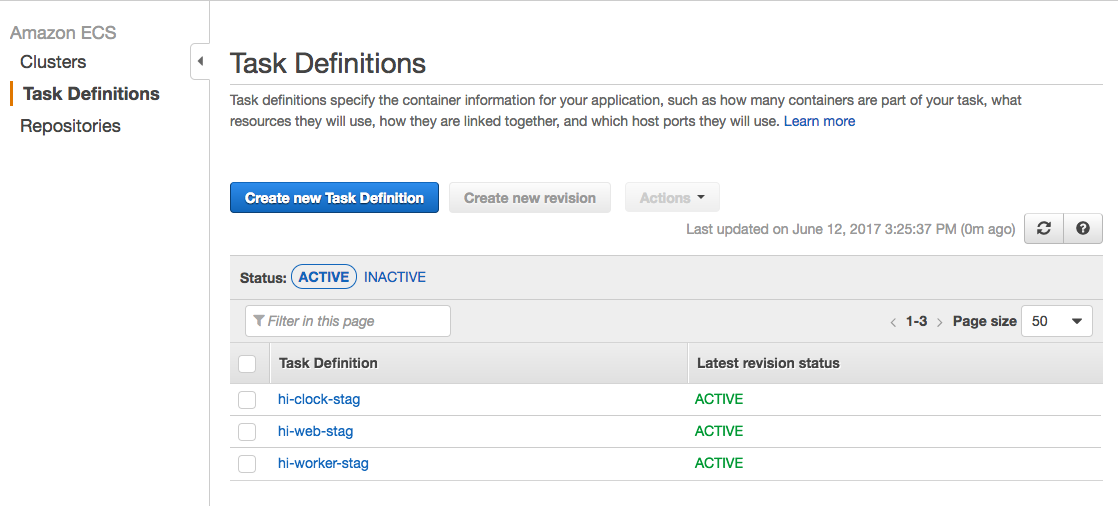
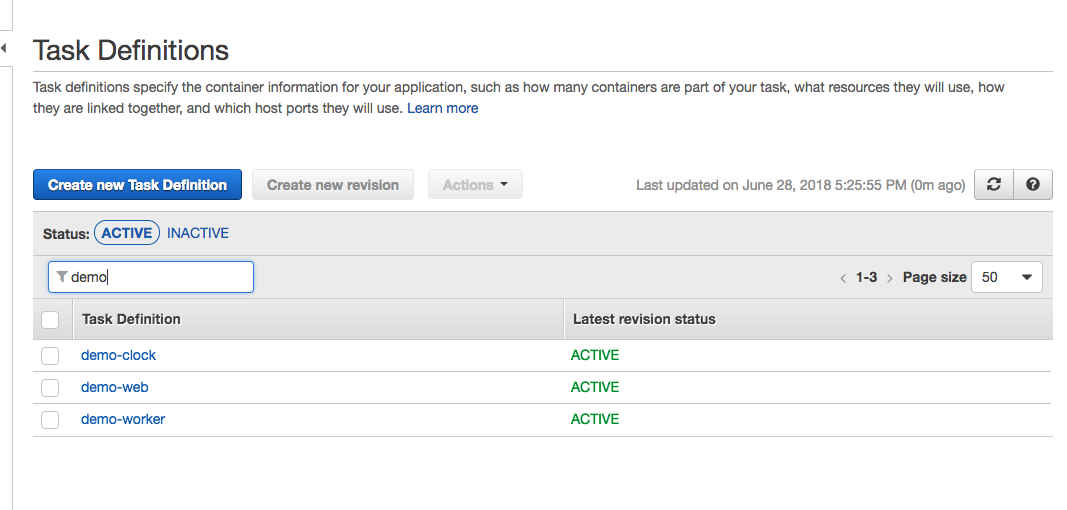
update docs

diff --git a/docs/_docs/tutorial-ufo-ship.md b/docs/_docs/tutorial-ufo-ship.md
@@ -7,91 +7,86 @@ title: Deploy One App
 In this guide we have walked through what ufo does step by step.  First ufo builds the Docker image with `ufo docker build`.  Then it will build and register the ECS task definitions with the `ufo tasks` commands. Now we'll deploy the code to ECS.
 
 ```sh
-ufo ship hi-web
+ufo ship demo-web
 ```
 
 By convention, ufo will ship the docker container to an ECS cluster with the same value as UFO_ENV, which defaults to development.  So the command above is the same as:
 
 ```sh
-ufo ship hi-web --cluster development
-UFO_ENV=development ufo ship hi-web
+ufo ship demo-web --cluster development
+UFO_ENV=development ufo ship demo-web
 ```
 
-When you run `ufo ship hi-web`:
+When you run `ufo ship demo-web`:
 
 1. It builds the docker image.
 2. Generates a task definition and registers it.
 3. Updates the ECS service to use it.
 
-If the ECS service hi-web does not yet exist, ufo will create the service for you. Ufo will also automatically create the ECS cluster.
+If the ECS service demo-web does not yet exist, ufo will create the service for you. Ufo will also automatically create the ECS cluster.
 
-NOTE: If you are relying on this tool to create the cluster, you still need to associate ECS Container Instances to the cluster yourself.
+NOTE: Ufo creates the ECS cluster record, but you still need to associate ECS Container Instances to the cluster yourself.
 
-By convention, if the service has a container name web, you'll get prompted to create an ELB and specify a target group ARN.  The ELB and target group must already exist. You can bypass the prompt and specify the target group ARN as part of the ship command or with the `--no-target-group-prompt` option.  The ELB target group only gets associated with the ECS service if the service is being created for the first time.  If the service already exists then the `--target-group` parameter just gets ignored and the ECS task simply gets updated.  Example:
-
-
-```bash
-ufo ship hi-web --target-group=arn:aws:elasticloadbalancing:us-east-1:12345689:targetgroup/hi-web/12345
-```
-
-Let's go back to the original command and take a look at the output:
+By convention, if the service has a container name web, ufo will automatically create an Load Balancer.  Let's take a look at the example out from the `ufo ship`.  Some of the output has been removed for conciseness.
 
 ```sh
-ufo ship hi-web
-```
-
-The output should look something like this (some of the output has been removed for conciseness):
-
-```sh
-$ ufo ship hi-web
+$ ufo ship demo-web
 Building docker image with:
-  docker build -t tongueroo/hi:ufo-2017-06-12T06-46-12-a18aa30 -f Dockerfile .
+  docker build -t tongueroo/demo-ufo:ufo-2018-06-28T16-41-11-7e0af94 -f Dockerfile .
 ...
-Pushed tongueroo/hi:ufo-2017-06-12T06-46-12-a18aa30 docker image. Took 9s.
-Building Task Definitions...
-Generating Task Definitions:
-  ufo/output/hi-web.json
-  ufo/output/hi-worker.json
-  ufo/output/hi-clock.json
-Task Definitions built in ufo/output.
-hi-web task definition registered.
-Shipping hi-web...
-hi-web service updated on stag cluster with task hi-web
+Deploying demo-web...
+Ensuring log group for demo-web task definition exists
+Log group name: ecs/demo-web
+Creating stack development-demo-web...
+Generated template saved at: /tmp/ufo/development-demo-web/stack.yml
+Generated parameters saved at: /tmp/ufo/development-demo-web/parameters.yml
+04:41:27PM CREATE_IN_PROGRESS AWS::CloudFormation::Stack development-demo-web User Initiated
+04:41:31PM CREATE_IN_PROGRESS AWS::EC2::SecurityGroup ElbSecurityGroup
+04:41:31PM CREATE_IN_PROGRESS AWS::EC2::SecurityGroup EcsSecurityGroup
+04:41:31PM CREATE_IN_PROGRESS AWS::ElasticLoadBalancingV2::TargetGroup TargetGroup
+04:41:31PM CREATE_IN_PROGRESS AWS::EC2::SecurityGroup ElbSecurityGroup Resource creation Initiated
+04:41:32PM CREATE_IN_PROGRESS AWS::EC2::SecurityGroup EcsSecurityGroup Resource creation Initiated
+04:41:32PM CREATE_IN_PROGRESS AWS::ElasticLoadBalancingV2::TargetGroup TargetGroup Resource creation Initiated
+...
+04:44:46PM CREATE_COMPLETE AWS::ECS::Service Ecs
+04:44:48PM CREATE_COMPLETE AWS::CloudFormation::Stack development-demo-web
+Stack success status: CREATE_COMPLETE
+Time took for stack deployment: 3m 22s.
 Software shipped!
-Cleaning up docker images...
-Running: docker rmi tongueroo/hi:ufo-2017-06-11T20-32-16-a18aa30 tongueroo/hi:ufo-2017-06-11T20-27-44-bc80e84 tongueroo/hi:ufo-2017-06-11T20-02-18-bc80e84
+$
 ```
 
 Checking the ECS console you should see something like this:
 
 <img src="/img/tutorials/ecs-console-ufo-ship.png" class="doc-photo" />
 
-You have successfully shipped a docker image to ECS! 🍾🥂
+You have successfully deployed a Docker image to ECS! 🍾🥂
 
-## Skipping Previous Steps Method
+## Checking ECS Service
 
-You should notice that `ufo ship` re-built the docker image and re-registered the task definitions.  The `ufo ship` command is designed to run everything in one simple command, so we do not have to manually call the commands in the previous pages: `ufo build` and `ufo tasks`.
+Another way to check that the ECS service is running is with the `ufo ps` command.
 
-If you would like to skip the first 2 steps, then you can use the [ufo deploy]({% link _reference/ufo-deploy.md %}) instead.  The `ufo deploy` command will:
+    $ ufo ps demo-web
+    => Service: demo-web
+       Service name: development-demo-web-Ecs-12DRF2703Z3D2
+       Status: ACTIVE
+       Running count: 1
+       Desired count: 1
+       Launch type: EC2
+       Task definition: demo-web:82
+       Elb: develop-Elb-ZY1VARS3KP14-2141687965.us-east-1.elb.amazonaws.com
+    +----------+------+-------------+---------------+---------+-------+
+    |    Id    | Name |   Release   |    Started    | Status  | Notes |
+    +----------+------+-------------+---------------+---------+-------+
+    | e4426421 | web  | demo-web:82 | 5 minutes ago | RUNNING |       |
+    +----------+------+-------------+---------------+---------+-------+
 
-1. register the task definition in `.ufo/output/hi-web.json` unmodified
-2. update the ECS service
+## Ufo Current Tip
 
-Example:
+We've been typing the `demo-web` service name explicitly.  We can set the current service with the `ufo current` command to save us from typing each time.  Example:
 
-```sh
-ufo deploy hi-web
-```
-
-The output should look something like this:
-
-```sh
-Shipping hi-web...
-hi-web service updated on stag cluster with task hi-web
-Software shipped!
-```
-
-Normally you run everything together in one `ufo ship` command though.  Ufo takes a multiple step process and simplifies it down to a single command!
+    ufo current --service demo-web
+    ufo ship # now same as ufo ship demo-web
 
 Congratulations 🎊 You have successfully built a Docker image, register it and deployed it to AWS ECS.
 

diff --git a/docs/_docs/tutorial-ufo-ships.md b/docs/_docs/tutorial-ufo-ships.md
@@ -2,16 +2,16 @@
 title: Deploy Multiple Apps
 ---
 
-You might have noticed in in the tutorial that the generated starter ufo folder contains 3 task definitions a `web`, `worker` and `clock` role.  This is a common pattern.  The web process handles web traffic, the worker process handles background job processing that would be too slow and potentially block web requests, and a clock process is typically used to schedule recurring jobs.
+You might have noticed in the tutorial that the generated starter .ufo folder contains 3 task definitions a `web`, `worker` and `clock` role.  This is a common pattern.  The web process handles web traffic, the worker process handles background job processing that would be too slow and potentially block web requests, and a clock process is typically used to schedule recurring jobs.
 
-These processes use the same codebase and same docker image, but have slightly different run time settings.  The docker run command for a web process could be [puma](http://puma.io/) and the command for a worker process could be [sidekiq](http://sidekiq.org/).  Environment variables are also sometimes different.  The important key is that the same docker image is used for all 3 services but the task definition for each service is slightly different.
+These processes typically use the same codebase and same docker image, but have slightly different run time settings.  The docker run command for a web process could be [puma](http://puma.io/) and the command for a worker process could be [sidekiq](http://sidekiq.org/).  Environment variables are also sometimes different.  The important key is that the same docker image is used for all 3 services but the task definition for each service is slightly different.
 
 While we can use the `ufo ship` command to deploy to all 3 service roles individually like so:
 
 ```sh
-ufo ship hi-web
-ufo ship hi-worker
-ufo ship hi-clock
+ufo ship demo-web
+ufo ship demo-worker
+ufo ship demo-clock
 ```
 
 This would build a new Docker image for each process.  We actually want have the same docker image running on all of these roles.  In this case where we want to use the *same* Docker image for all 3 roles, ufo provides a `ufo ships` command.
@@ -19,7 +19,7 @@ This would build a new Docker image for each process.  We actually want have the
 ## ufo ships
 
 ```sh
-ufo ships hi-web hi-worker hi-clock
+ufo ships demo-web demo-worker demo-clock
 ```
 
 You can check on the ECS console and should see something similar to this:
@@ -29,8 +29,10 @@ You can check on the ECS console and should see something similar to this:
 You can shorten the command by taking advantage of shell expansion:
 
 ```sh
-ufo ships hi-{web,worker,clock}
+ufo ships demo-{web,worker,clock}
 ```
+
+In the case of the `ufo ships` command the `--wait` option defaults to false so that all the specified ECS services update in parallel.  You can check on the status of the update on the CloudFormation console.
 
 <a id="prev" class="btn btn-basic" href="{% link _docs/tutorial-ufo-ship.md %}">Back</a>
 <a id="next" class="btn btn-primary" href="{% link docs.md %}">Next Step</a>

diff --git a/docs/_docs/tutorial-ufo-docker-build.md b/docs/_docs/tutorial-ufo-docker-build.md
@@ -15,38 +15,25 @@ You should see similar output (some of the output has been truncated for concise
 ```sh
 $ ufo docker build
 Building docker image with:
-  docker build -t tongueroo/hi:ufo-2017-06-11T22-18-03-a18aa30 -f Dockerfile .
-Sending build context to Docker daemon 734.2 kB
-Step 1 : FROM ruby:2.3.3
- ---> 0e1db669d557
-Step 2 : RUN apt-get update &&   apt-get install -y     build-essential     nodejs &&   rm -rf /var/lib/apt/lists/* && apt-get clean && apt-get purge
+  docker build -t tongueroo/demo-ufo:ufo-2018-06-28T16-33-57-7e0af94 -f Dockerfile .
+Sending build context to Docker daemon    128kB
+Step 1/10 : FROM ruby:2.5.1
+ ---> 857bc7ff918f
+Step 2/10 : WORKDIR /app
  ---> Using cache
- ---> 931ace833716
+ ---> 4e93fbb496c9
 ...
-Step 7 : ADD . /app
- ---> fae2452e6c35
-Removing intermediate container 4c93f92a7fd8
-Step 8 : RUN bundle install --system
- ---> Running in f851b9cb7d27
-Using rake 12.0.0
-Using i18n 0.8.1
-...
-Using web-console 2.3.0
-Bundle complete! 12 Gemfile dependencies, 56 gems now installed.
-Bundled gems are installed into /usr/local/bundle.
- ---> 194830c5c1a8
-...
-Removing intermediate container 67545cd4cd09
-Step 11 : CMD bin/web
- ---> Running in b1b26e68d957
- ---> 8547bb48b21f
-Removing intermediate container b1b26e68d957
-Successfully built 8547bb48b21f
-Docker image tongueroo/hi:ufo-2017-06-11T22-18-03-a18aa30 built.  Took 33s.
-$
+Step 10/10 : CMD bin/web
+ ---> Running in cd63ebaec8aa
+ ---> 14852737c639
+Removing intermediate container cd63ebaec8aa
+Successfully built 14852737c639
+Successfully tagged tongueroo/demo-ufo:ufo-2018-06-28T16-33-57-7e0af94
+Docker image tongueroo/demo-ufo:ufo-2018-06-28T16-33-57-7e0af94 built.
+Docker build took 2s.
 ```
 
-As you can see `ufo docker build` effectively shells out and calls `docker build -t tongueroo/hi:ufo-2017-06-11T22-18-03-a18aa30 -f Dockerfile .`.  The docker image tag that is generated contains a useful timestamp and the current HEAD git sha of the project that you are on.
+As you can see `ufo docker build` shells out and calls `docker build -t tongueroo/hi:ufo-2017-06-11T22-18-03-a18aa30 -f Dockerfile .`.  The docker image tag that is generated contains a useful timestamp and the current HEAD git sha of the project that you are on.
 
 By default when you are running `ufo docker build` directly it does not push the docker image to the registry.  If you would like it to push the built image to a registry at the end of the build use the `--push` flag.
 
@@ -63,7 +50,8 @@ ufo docker push
 You should see the image being pushed with a message that looks something like this:
 
 ```sh
-Pushed tongueroo/hi:ufo-2017-06-11T22-22-32-a18aa30 docker image. Took 9s.
+Pushed tongueroo/demo-ufo:ufo-2018-06-28T16-33-57-7e0af94 docker image.
+Docker push took 12s.
 ```
 
 

diff --git a/docs/_docs/tutorial-ufo-tasks-build.md b/docs/_docs/tutorial-ufo-tasks-build.md
@@ -39,7 +39,7 @@ The instance variable values are specified in `.ufo/task_definitions.rb` via a D
 **.ufo/task_definitions.rb**:
 
 ```
-task_definition "hi-web" do
+task_definition "demo-web" do
   source "main" # will use ufo/templates/main.json.erb
   variables(
     family: task_definition_name,
@@ -49,7 +49,7 @@ task_definition "hi-web" do
   )
 end
 
-task_definition "hi-worker" do
+task_definition "demo-worker" do
   source "main" # will use ufo/templates/main.json.erb
   variables(
     family: task_definition_name,
@@ -66,7 +66,7 @@ Ufo has a concept of shared variables, covered in [Shared Variables]({% link _do
 **.ufo/variables/base.rb**:
 
 ```ruby
-@image = helper.full_image_name # includes the git sha tongueroo/hi:ufo-[sha].
+@image = helper.full_image_name # includes the git sha tongueroo/demo-ufo:ufo-[sha].
 @cpu = 128
 @memory_reservation = 256
 @environment = helper.env_file(".env")
@@ -99,22 +99,22 @@ You should see output similar to below:
 $ ufo tasks build
 Building Task Definitions...
 Generating Task Definitions:
-  .ufo/output/hi-web.json
-  .ufo/output/hi-worker.json
-  .ufo/output/hi-clock.json
+  .ufo/output/demo-web.json
+  .ufo/output/demo-worker.json
+  .ufo/output/demo-clock.json
 Task Definitions built in .ufo/output
 $
 ```
 
-Let's take a look at one of the generated files: `.ufo/output/hi-web.json`.
+Let's take a look at one of the generated files: `.ufo/output/demo-web.json`.
 
 ```json
 {
-  "family": "hi-web",
+  "family": "demo-web",
   "containerDefinitions": [
     {
       "name": "web",
-      "image": "tongueroo/hi:ufo-2018-02-13T11-33-15-27aa242",
+      "image": "tongueroo/demo-ufo:ufo-2018-02-13T11-33-15-27aa242",
       "cpu": 192,
       "memoryReservation": 256,
       "portMappings": [
@@ -137,7 +137,7 @@ Let's take a look at one of the generated files: `.ufo/output/hi-web.json`.
       "logConfiguration": {
         "logDriver": "awslogs",
         "options": {
-          "awslogs-group": "ecs/hi-web",
+          "awslogs-group": "ecs/demo-web",
           "awslogs-region": "us-east-1",
           "awslogs-stream-prefix": "hi"
         }
@@ -159,9 +159,9 @@ ufo tasks register
 You should see something similar to this:
 
 ```sh
-hi-clock task definition registered.
-hi-web task definition registered.
-hi-worker task definition registered.
+demo-clock task definition registered.
+demo-web task definition registered.
+demo-worker task definition registered.
 ```
 
 <a id="prev" class="btn btn-basic" href="{% link _docs/tutorial-ufo-docker-build.md %}">Back</a>

diff --git a/docs/_docs/tutorial-ufo-init.md b/docs/_docs/tutorial-ufo-init.md
@@ -2,36 +2,37 @@
 title: Setup Ufo
 ---
 
-The easiest way to create this ufo folder is by using the `ufo init` command.  For this tutorial we'll [tongueroo/hi](https://github.com/tongueroo/hi) which is a small test sinatra app.
+The easiest way to create this ufo folder is by using the `ufo init` command.  For this tutorial we'll [tongueroo/demo-ufo](https://github.com/tongueroo/demo-ufo) which is a small test sinatra app.
 Let's run the command in our newly cloned project.
 
 ```sh
-git clone https://github.com/tongueroo/hi.git
-cd hi
-ufo init --app=hi --image=tongueroo/hi
+git clone https://github.com/tongueroo/demo-ufo.git
+cd demo-ufo
+ufo init --app=demo --image=tongueroo/demo-ufo
 ```
 
 You should see output similiar to this:
 
 ```sh
-$ ufo init --app=hi --image=tongueroo/hi
+$ ufo init --app=demo --image=tongueroo/demo-ufo
 Setting up ufo project...
       create  .env
+      create  .ufo/params.yml
       create  .ufo/settings.yml
+      create  .ufo/settings/cfn/default.yml
+      create  .ufo/settings/network/default.yml
       create  .ufo/task_definitions.rb
+      create  .ufo/templates/fargate.json.erb
       create  .ufo/templates/main.json.erb
       create  .ufo/variables/base.rb
       create  .ufo/variables/development.rb
       create  .ufo/variables/production.rb
-      create  Dockerfile
+   identical  Dockerfile
       create  bin/deploy
       append  .gitignore
+      create  .dockerignore
 Starter ufo files created.
-$ ufo ship hi-web
-Building docker image with:
-  docker build -t tongueroo/hi:ufo-2017-09-10T15-00-19-c781aaf -f Dockerfile .
-....
-Software shipped!
+Congrats 🎉 You have successfully set up ufo for your project.
 $
 ```
 
@@ -59,10 +60,13 @@ Take a look at the `settings.yml` file and notice that it contains some default 
 ```yaml
 # More info: http://ufoships.com/docs/settings/
 base:
-  image: tongueroo/hi
+  image: tongueroo/demo-ufo
   # clean_keep: 30 # cleans up docker images on your docker server.
   # ecr_keep: 30 # cleans up images on ECR and keeps this remaining amount. Defaults to keep all.
   # defaults when an new ECS service is created by ufo ship
+  network_profile: default # .ufo/settings/network/default.yml file
+  cfn_profile: default # .ufo/settings/cfn/default.yml file
+
 development:
   # cluster: dev # uncomment if you want the cluster name be other than the default
                  # the default is to match UFO_ENV.  So UFO_ENV=development means the ECS
